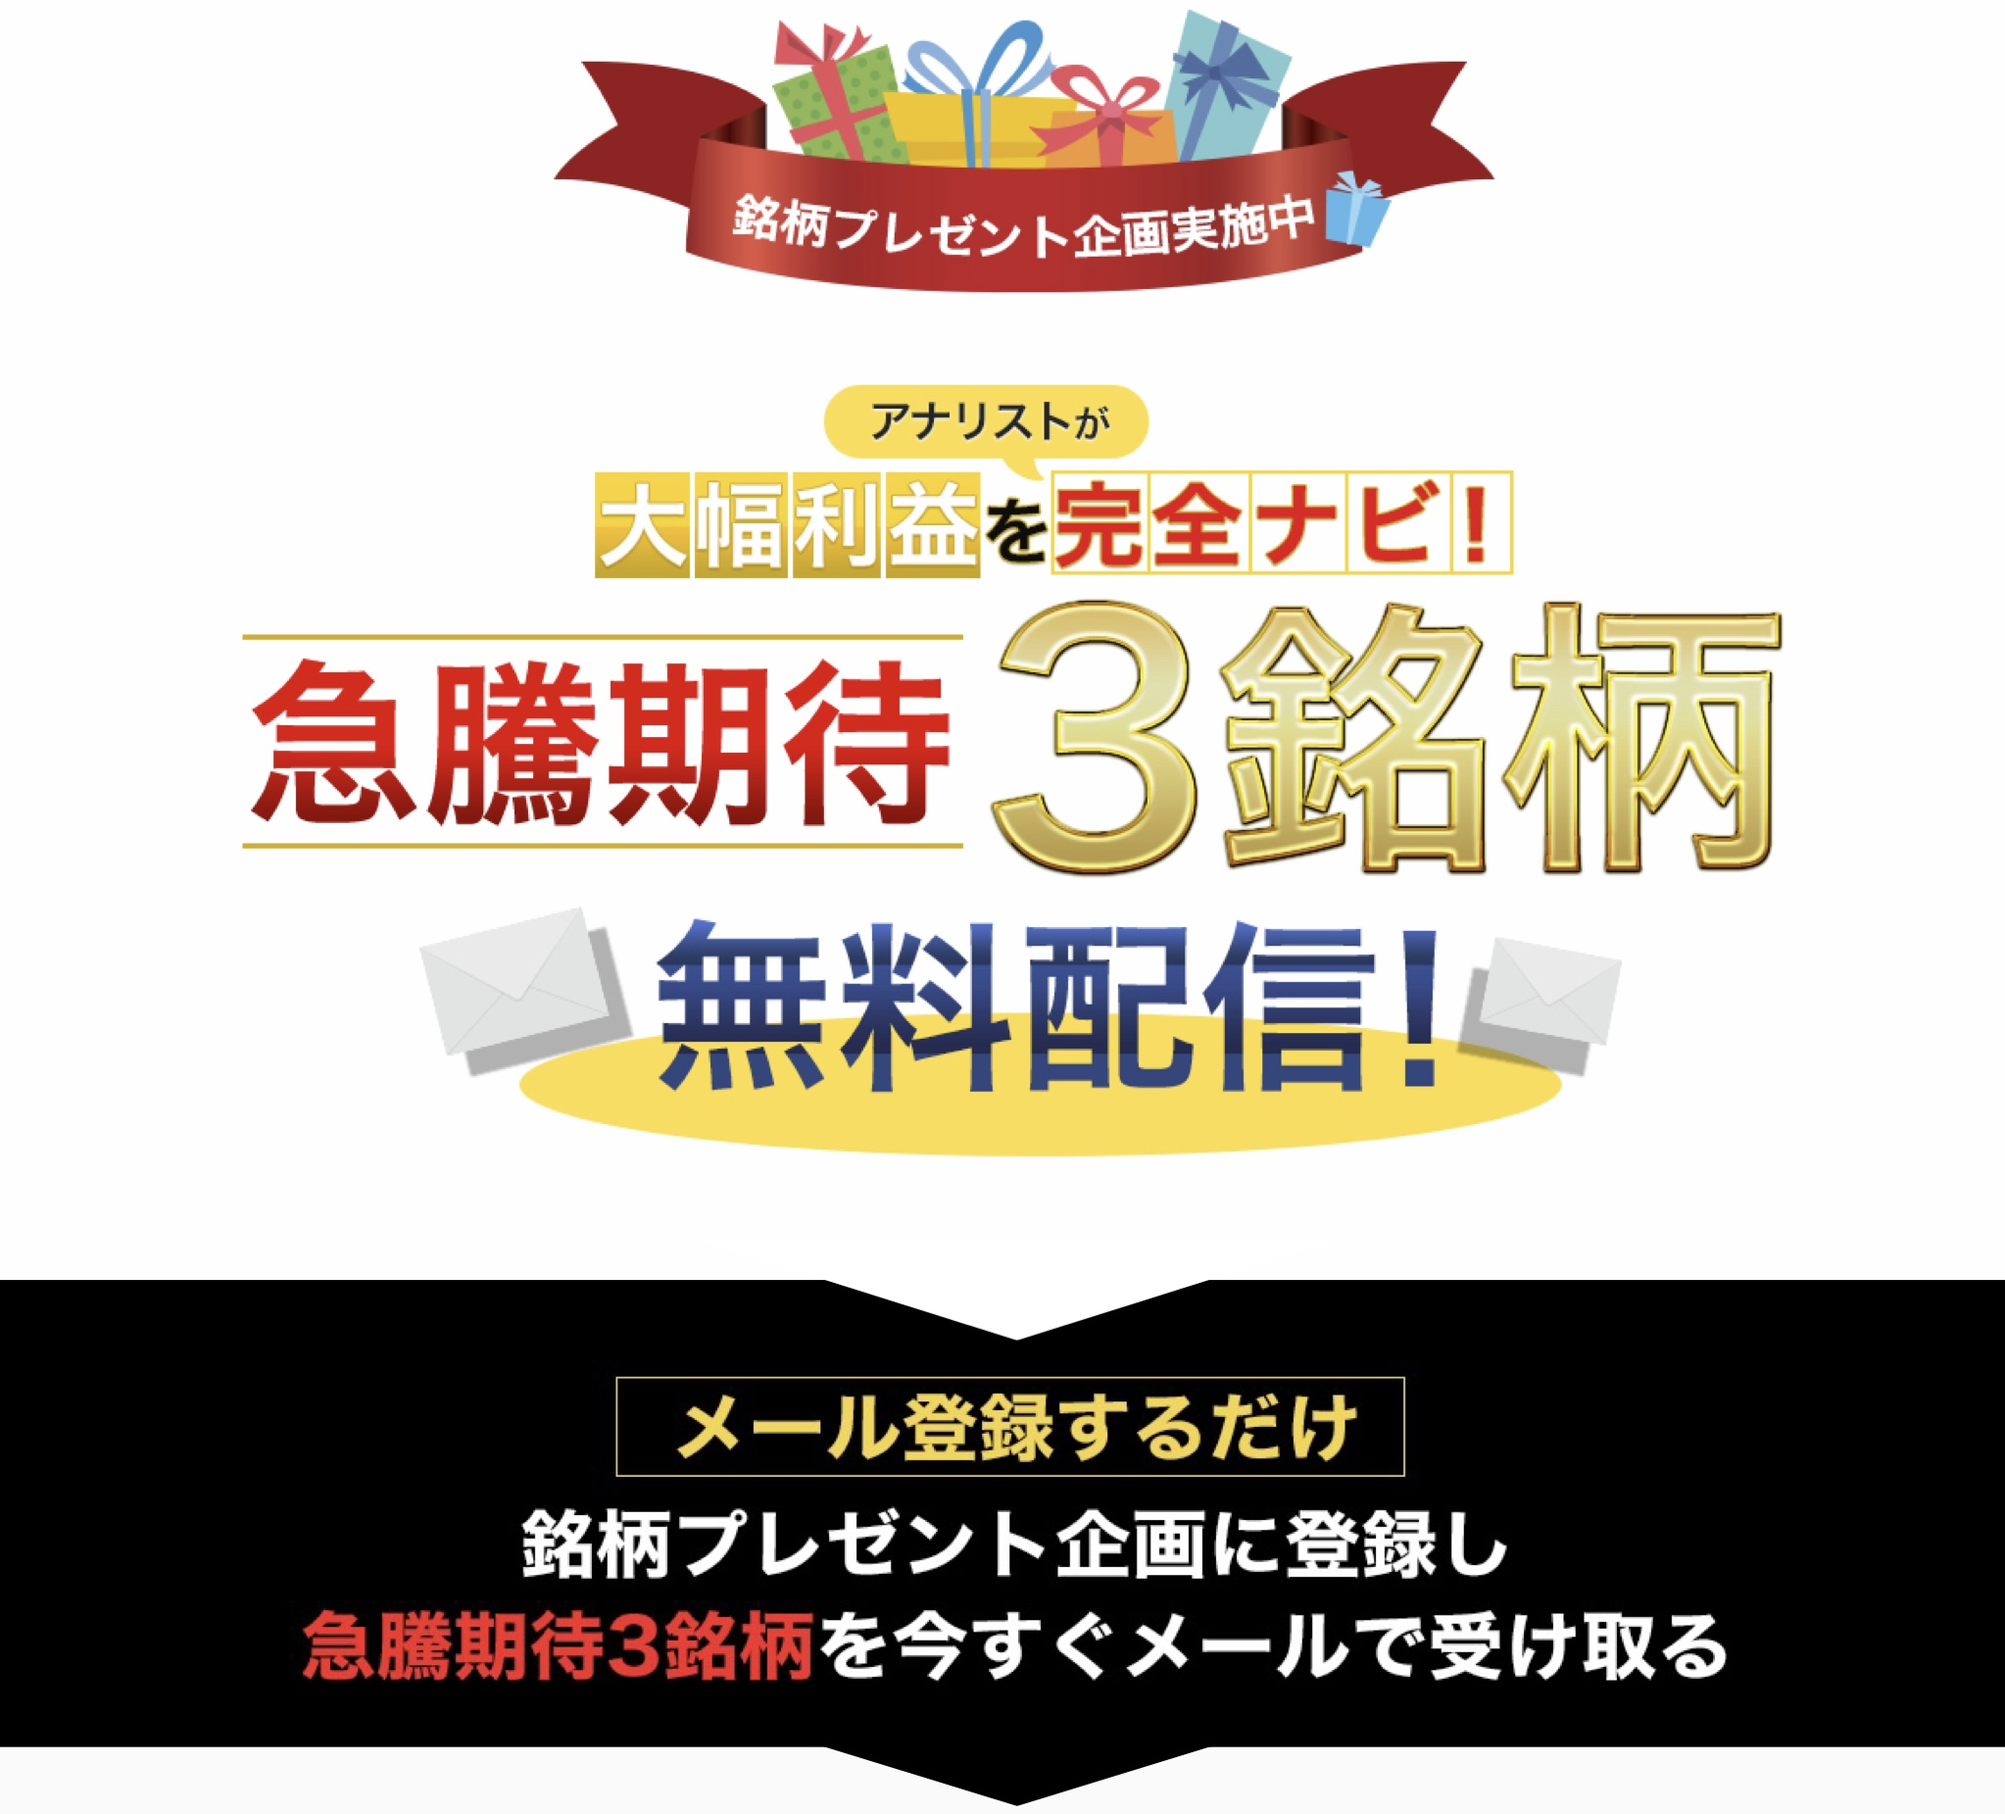
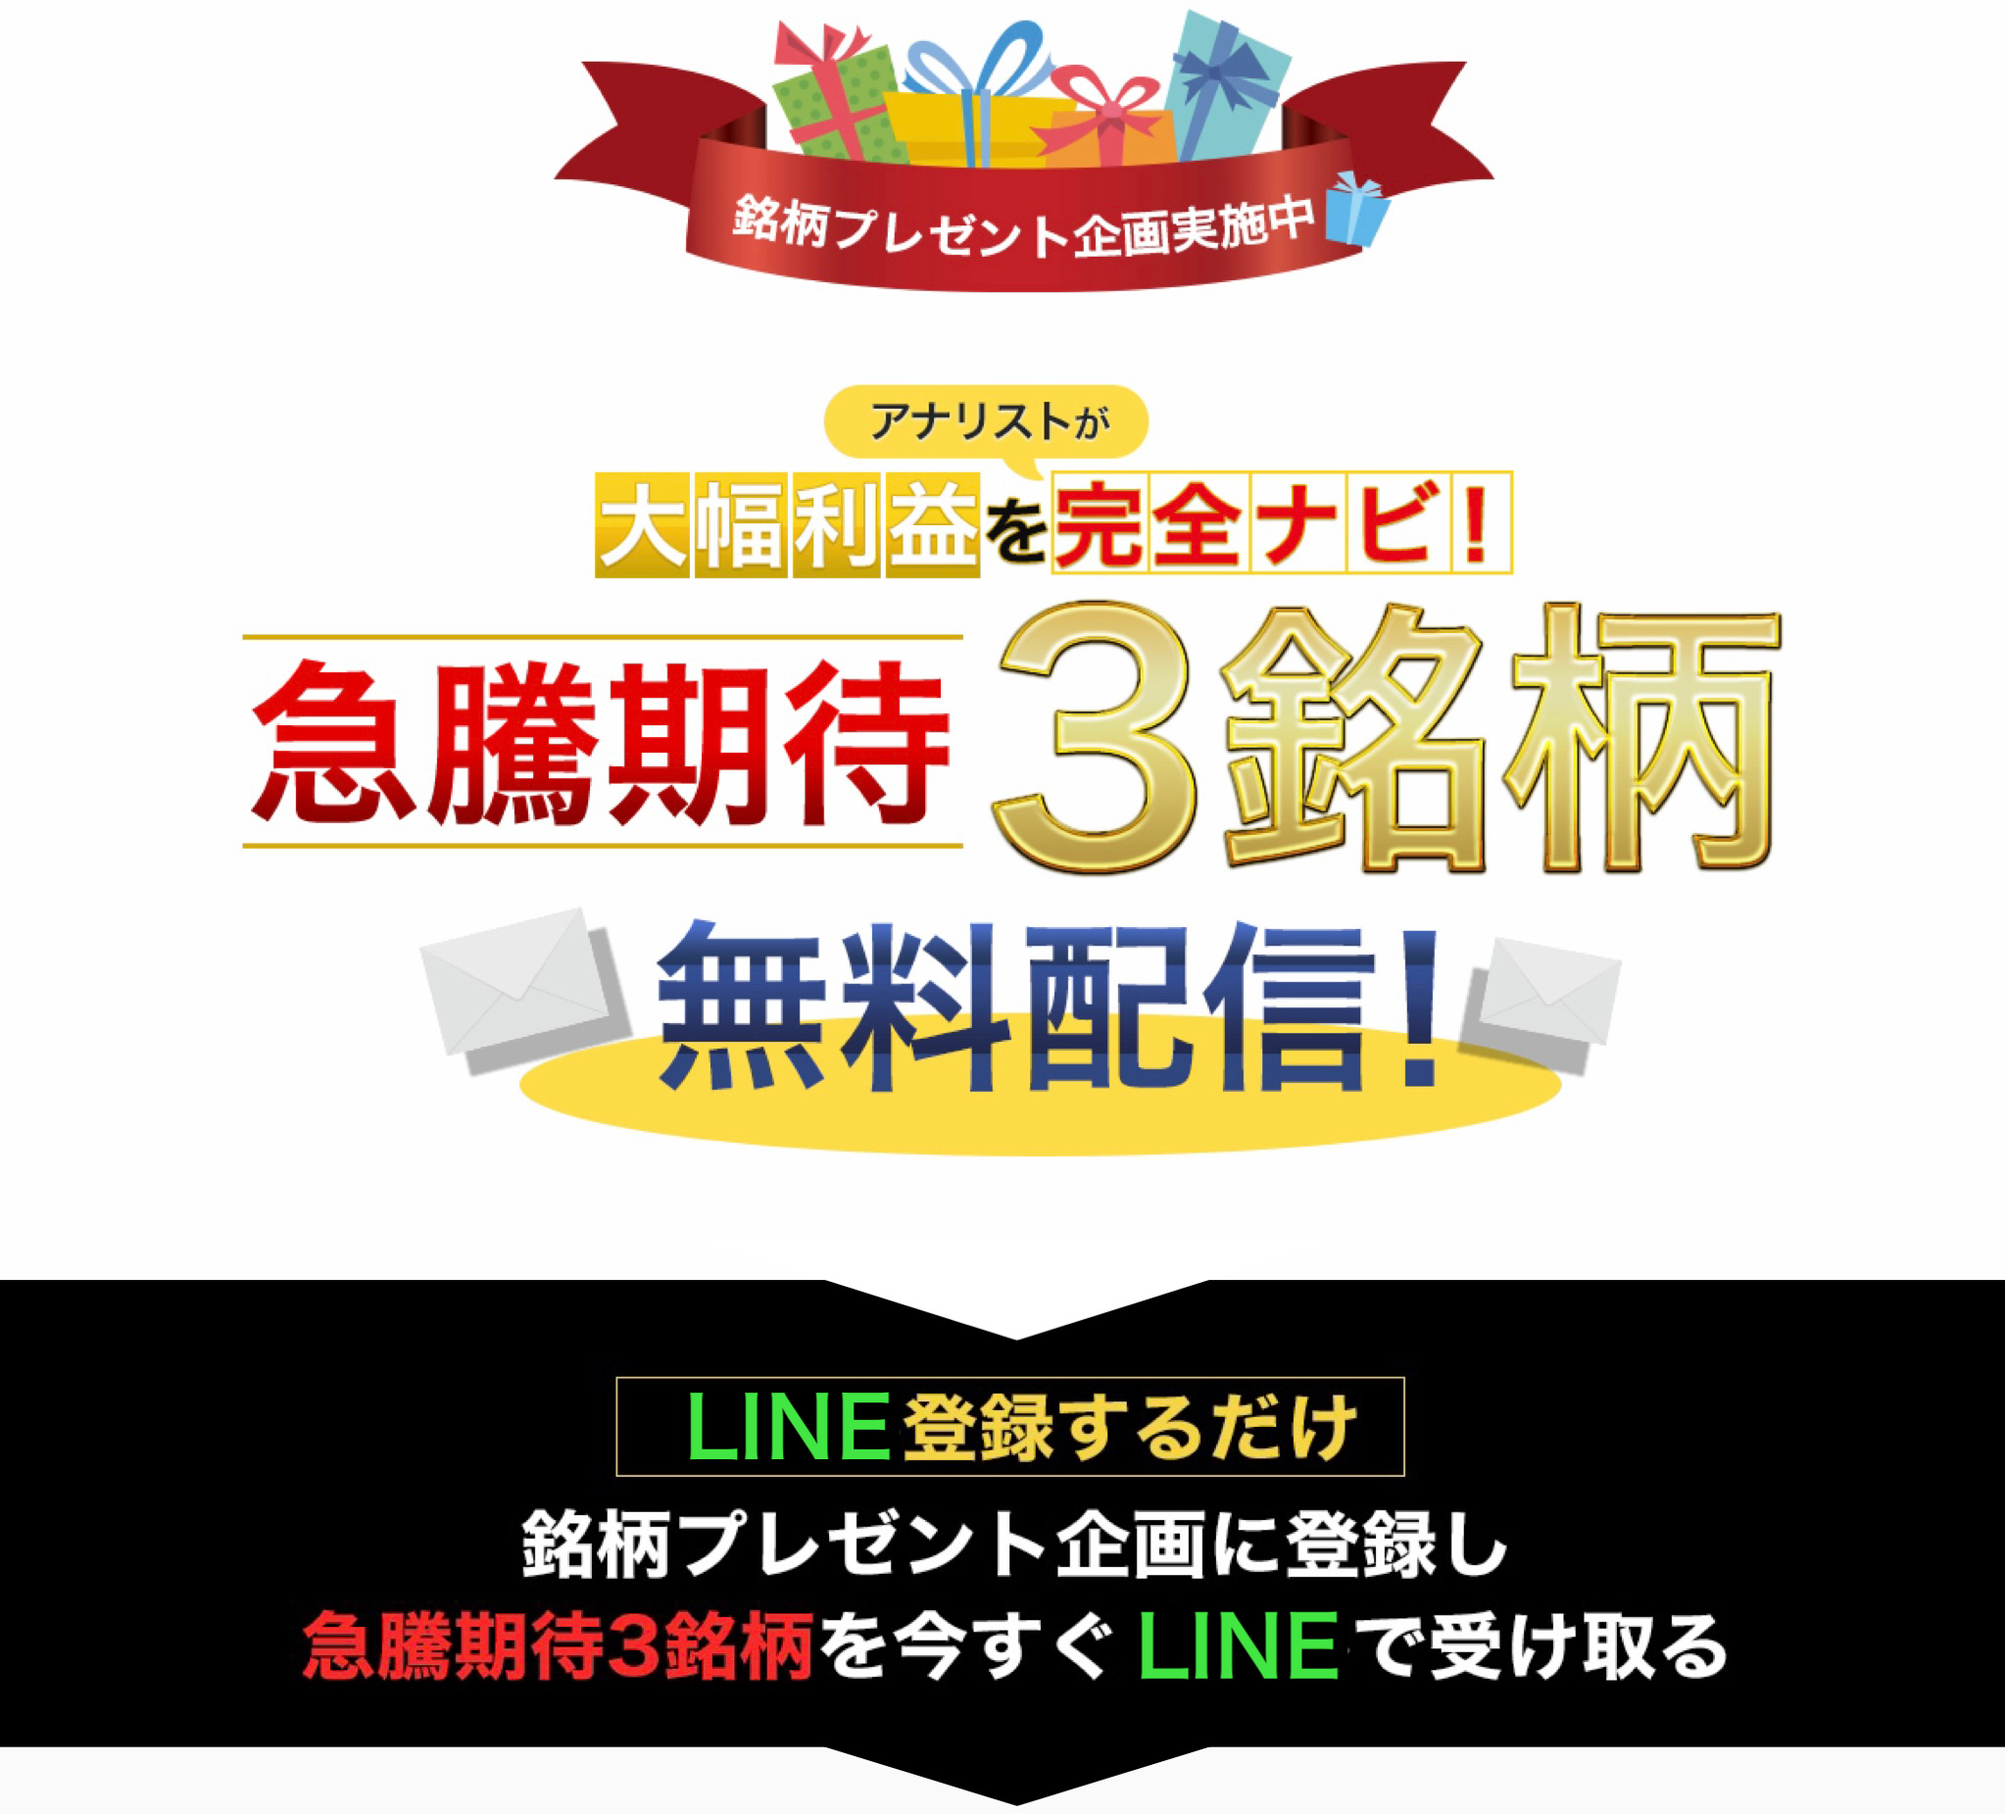
update3

diff --git a/index.html b/index.html
@@ -6,6 +6,46 @@
 <title>株アンドドットコム</title>
 
 <style>
+    /* 固定ボタン */
+/* 下の背景バー */
+.fixed-line {
+  position: fixed;
+  bottom: 0;
+  left: 0;
+  width: 100%;
+  background: #0B1F3A;
+  padding: 10px;
+  z-index: 9999;
+}
+
+/* 中のボタン */
+.fixed-line a {
+  display: block;
+  width: 90%;
+  margin: 0 auto;
+  background: #06C755;
+  color: #fff;
+  font-size: 16px;
+  font-weight: bold;
+  text-align: center;
+  padding: 16px;
+  border-radius: 30px;
+  text-decoration: none;
+
+  box-shadow: 0 6px 0 #049e44;
+  transition: 0.2s;
+}
+
+/* 押した時 */
+.fixed-line a:active {
+  transform: translateY(3px);
+  box-shadow: 0 3px 0 #049e44;
+}
+
+/* 下に余白（ボタンに隠れないように） */
+body {
+  padding-bottom: 70px;
+}
 body{margin:0;font-family:sans-serif;background:#fff;}
 .container{max-width:480px;margin:0 auto;}
 img{width:100%;display:block;}
@@ -282,3 +322,17 @@ margin:20px 15px;
 <!-- フッター -->
 <div class="section text" style="font-size:12px;background:#f9f9f9;line-height:1.8;">
 <p>【投資に係るリスクおよび手数料について】</p> <p> ホームページ上、メール上での提供情報はあくまでも情報の提供であり、売買指示ではございません。実際の投資商品の売買におきましては、自己資金枠等を考慮した上、ご自身の判断・責任のもとご活用をお願い致します。国内上場有価証券等には株式相場、金利水準、為替相場、不動産相場、商品相場等の価格の変動等および有価証券の発行者等の信用状況（財務・経営状況を含む）の悪化等それらに関する外部評価の変化等を直接の原因として損失が生ずるおそれ（元本欠損リスク）、または元本を超過する損失を生ずるおそれ（元本超過損リスク）があります。 </p> <p>【株式投資の勉強会(セミナー)を不定期開催！】</p> <p> 弊社では不定期に少人数制にて株式投資を学ぶ勉強会(セミナー)を開催しております。ご興味があれば是非ご参加ください。尚、少人数につき毎回、即時定員に達してしまいますので参加ご希望の際はお早目にご連絡ください。（※会場の関係上、増員の追加募集などはございません。）開催については会員様にメールにてお知らせ致します。 </p> <p>【免責事項】</p> <p> ホームページ及びメール上での提供情報は著作権法によって保護されており、日本投資機構株式会社（以下「当社」）に無断で転用、複製又は販売等を行う事を固く禁じます。提供情報は、当社の情報提供を目的とするものであり、投資勧誘を目的とするものではありません。ホームページ及びメール上での提供情報はあくまでも情報の提供であり、売買指示ではございません。実際の取引（投資）商品の売買におきましては、自己資金枠等を十分考慮した上、ご自身の判断・責任のもとご利用下さい。弊社は、提供情報の内容については万全を期しておりますが、会員様が提供情報の内容に基づいて行われる取引、その他の行為、及びその結果について、これを保証するものではありません。また、この情報に基づいて被った如何なる損害についても当社は一切の責任を負いかねますので予めご了承下さい。 </p> </div>
+
+<div class="fixed-line">
+<a href="#" class="line-btn">
+LINE追加で無料銘柄を受け取る
+</a>
+</div>
+
+<script>
+const LINE_URL = "https://lin.ee/OqNlQH2";
+
+document.querySelectorAll(".line-btn").forEach(el=>{
+  el.href = LINE_URL;
+});
+</script>
